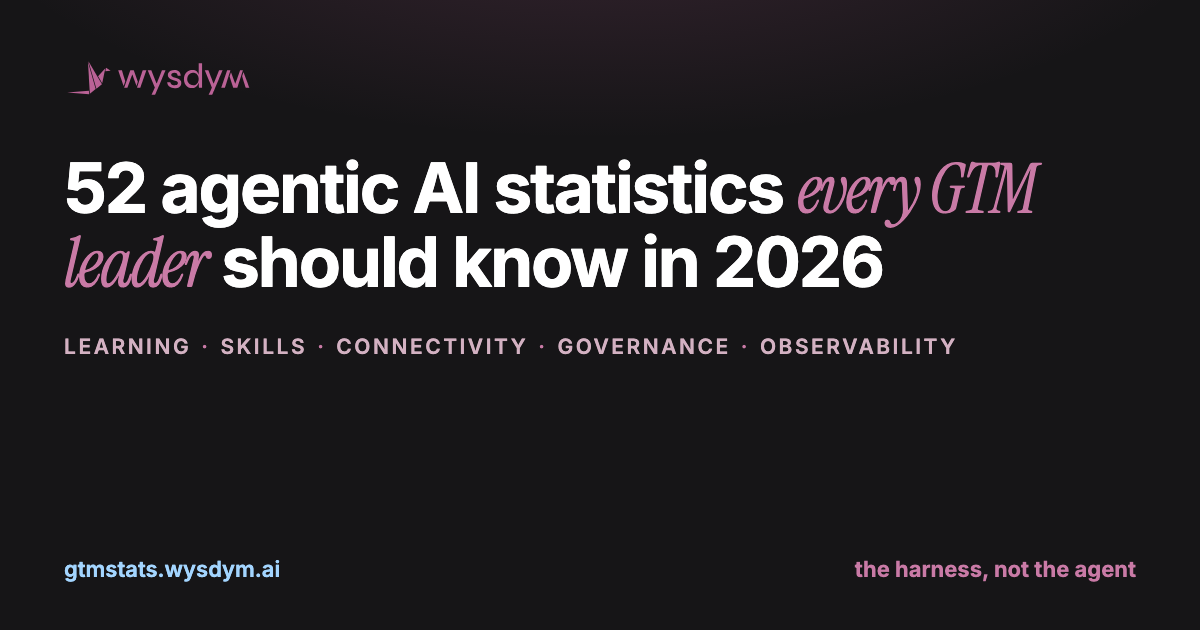
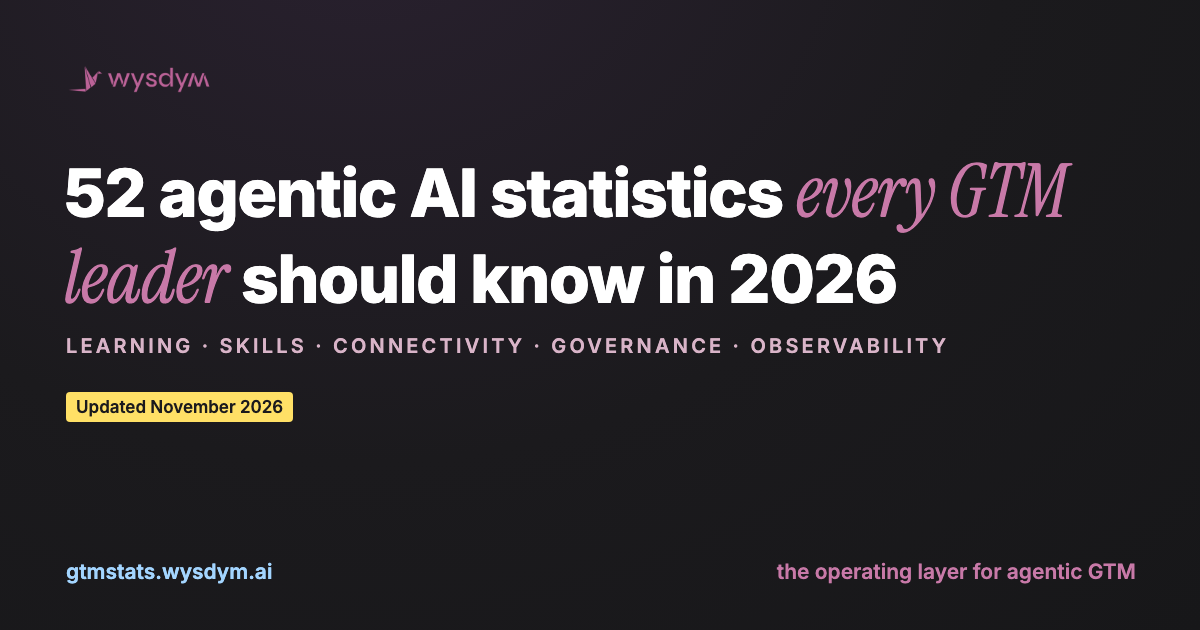
New social share card: operating layer positioning, updated Nov 2026

diff --git a/index.html b/index.html
@@ -11,14 +11,14 @@
 <meta property="og:title" content="52 Agentic AI Statistics Every GTM Leader Should Know in 2026">
 <meta property="og:description" content="Market growth, adoption, ROI, and the five pillars that separate production agents from prototypes — every stat linked to its primary source. Updated November 2026.">
 <meta property="og:url" content="https://gtmstats.wysdym.ai/">
-<meta property="og:image" content="https://gtmstats.wysdym.ai/assets/og-card.png">
+<meta property="og:image" content="https://gtmstats.wysdym.ai/assets/og-card.png?v=2026-11">
 <meta property="og:image:width" content="1200">
 <meta property="og:image:height" content="630">
 <meta property="og:image:alt" content="52 agentic AI statistics every GTM leader should know in 2026 — wysdym">
 <meta name="twitter:card" content="summary_large_image">
 <meta name="twitter:title" content="52 Agentic AI Statistics Every GTM Leader Should Know in 2026">
 <meta name="twitter:description" content="Market growth, adoption, ROI, and the five pillars that separate production agents from prototypes — every stat linked to its primary source.">
-<meta name="twitter:image" content="https://gtmstats.wysdym.ai/assets/og-card.png">
+<meta name="twitter:image" content="https://gtmstats.wysdym.ai/assets/og-card.png?v=2026-11">
[1 lines of base64/hex data omitted]
 <link rel="preconnect" href="https://fonts.googleapis.com">
 <link rel="preconnect" href="https://fonts.gstatic.com" crossorigin>
@@ -397,7 +397,7 @@
   "description": "52 verified agentic AI statistics for 2026: market growth, adoption, ROI, and the five pillars that separate production agents from prototypes. Every statistic links to its primary source.",
   "url": "https://gtmstats.wysdym.ai/",
   "mainEntityOfPage": "https://gtmstats.wysdym.ai/",
-  "image": "https://gtmstats.wysdym.ai/assets/og-card.png",
+  "image": "https://gtmstats.wysdym.ai/assets/og-card.png?v=2026-11",
   "datePublished": "2026-06-25",
   "dateModified": "2026-11-09",
   "inLanguage": "en",
